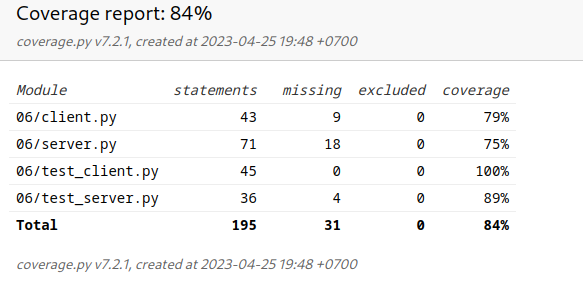
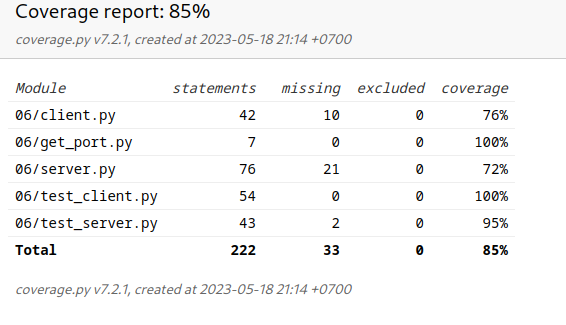
fix 6 hx

diff --git a/06/test_server.py b/06/test_server.py
@@ -3,59 +3,111 @@ import queue
 import threading
 import socket
 
+import pytest
+
 from server import server_starter
 from get_port import get_unused_data
 
 
-def fake_client(tmp_queue: queue.Queue, host: str, port: int) -> None:
-    base_urls = [
-        "https://shikimori.me/",
-        "https://mail.yandex.ru/",
-        "https://www.youtube.com/",
-        "https://stepik.org/catalog",
-        "https://github.com/PC-Nazarka",
-        "https://gitlab.com/PC-Nazarka",
-        "https://dzen.ru/",
-        "https://ya.ru/",
-        "https://krasnoyarsk.hh.ru/",
-        "https://docs.python.org/3/whatsnew/3.11.html",
-    ]
+def fake_client(
+    tmp_queue: queue.Queue,
+    host: str,
+    port: int,
+    urls: list[str],
+) -> None:
     timeout = 10
-    for url in base_urls:
-        try:
-            with socket.socket(socket.AF_INET, socket.SOCK_STREAM) as client:
-                client.connect((host, port))
-                client.settimeout(timeout)
-                client.sendall(url.encode())
-                data = client.recv(8192)
-                tmp_queue.put(json.loads(data.decode()))
-        except queue.Empty:
-            break
-        except TimeoutError:
-            break
+    for url in urls:
+        while True:
+            try:
+                with socket.socket(socket.AF_INET, socket.SOCK_STREAM) as client:
+                    client.connect((host, port))
+                    client.settimeout(timeout)
+                    client.sendall(url.encode())
+                    data = client.recv(8192)
+                    tmp_queue.put(json.loads(data.decode()))
+                    break
+            except queue.Empty:
+                break
+            except TimeoutError:
+                break
+            except Exception:
+                pass
 
 
-def test_server_side(mocker) -> None:
+@pytest.mark.parametrize(
+    ["workers", "count_words", "urls"],
+    [
+        [
+            2,
+            5,
+            [
+                "https://shikimori.me/",
+                "https://mail.yandex.ru/",
+                "https://stepik.org/catalog",
+                "https://dzen.ru/",
+                "https://ya.ru/",
+                "https://krasnoyarsk.hh.ru/",
+            ],
+        ],
+        [
+            7,
+            7,
+            [
+                "https://shikimori.me/",
+                "https://mail.yandex.ru/",
+                "https://stepik.org/catalog",
+                "https://krasnoyarsk.hh.ru/",
+            ],
+        ],
+        [
+            10,
+            2,
+            [
+                "https://shikimori.me/",
+                "https://mail.yandex.ru/",
+                "https://www.youtube.com/",
+                "https://stepik.org/catalog",
+                "https://github.com/PC-Nazarka",
+                "https://gitlab.com/PC-Nazarka",
+                "https://dzen.ru/",
+                "https://ya.ru/",
+                "https://krasnoyarsk.hh.ru/",
+                "https://docs.python.org/3/whatsnew/3.11.html",
+            ],
+        ],
+    ],
+)
+def test_server_side(
+    mocker,
+    workers: int,
+    count_words: int,
+    urls: list[str],
+) -> None:
     host, port = get_unused_data()
-    responses = [{str(i): i, str(i+1): i+1} for i in range(0, 20, 2)]
-    mocker.patch("server.handle_url", side_effect=responses)
+    tmp_queue = queue.Queue()
+    responses = [{str(i): i, str(i+1): i+1} for i in range(len(urls))]
+    func = mocker.Mock(side_effect=responses)
     server = threading.Thread(
         target=server_starter,
         name="server_thread",
-        args=(5, 5),
-        kwargs={"host": host, "port": port},
+        args=(workers, count_words),
+        kwargs={"host": host, "port": port, "handler_func": func},
     )
-    server.start()
-    tmp_queue = queue.Queue()
     client = threading.Thread(
         target=fake_client,
         name="fake_client_thread",
-        args=(tmp_queue, host, port),
+        args=(tmp_queue, host, port, urls),
     )
+    server.start()
     client.start()
     client.join()
     server.join()
     server_requests = []
+    calls = [(url, count_words) for url in urls]
     while not tmp_queue.empty():
         server_requests.append(tmp_queue.get())
     assert server_requests == responses
+    assert all(
+        call._get_call_arguments()[0] == calls[index]
+        for index, call in enumerate(func.call_args_list)
+    )

diff --git a/06/server.py b/06/server.py
@@ -4,6 +4,7 @@ import socket
 import threading
 import queue
 from collections import Counter
+from typing import Callable
 from urllib import request, error
 
 HOST = "localhost"
@@ -32,6 +33,7 @@ def worker_thread(
     in_queue: queue.Queue,
     timeout: int,
     lock: threading.Lock,
+    handler_func: Callable = handle_url,
 ) -> None:
     while True:
         try:
@@ -40,16 +42,16 @@ def worker_thread(
                 break
             with connection:
                 url = connection.recv(8192)
-                top_words = handle_url(
+                top_words = handler_func(
                     url.decode(DEFAULT_ENCODING),
                     count_words,
                 )
+                result = str(json.dumps(top_words)).encode(DEFAULT_ENCODING)
+                connection.sendall(result)
                 with lock:
                     global COUNT_COMPUTED_URLS
                     COUNT_COMPUTED_URLS += 1
                 print(COUNT_COMPUTED_URLS)
-                result = str(json.dumps(top_words)).encode(DEFAULT_ENCODING)
-                connection.sendall(result)
         except TimeoutError:
             break
         except queue.Empty:
@@ -64,6 +66,7 @@ def master_thread(
     host: str,
     port: int,
     timeout: int = TIMEOUT,
+    handler_func: Callable = handle_url,
 ) -> None:
     in_queue = queue.Queue()
     lock = threading.Lock()
@@ -77,6 +80,7 @@ def master_thread(
                 target=worker_thread,
                 name=f"worker_thread_{i}",
                 args=(count_words, in_queue, timeout, lock),
+                kwargs={"handler_func": handler_func},
             )
             for i in range(workers)
         ]
@@ -97,11 +101,13 @@ def server_starter(
     count_words: int,
     host: str = HOST,
     port: int = PORT,
+    handler_func: Callable = handle_url,
 ) -> None:
     master = threading.Thread(
         target=master_thread,
         name="master_thread",
         args=(workers, count_words, host, port),
+        kwargs={"handler_func": handler_func},
     )
     master.start()
     master.join()

diff --git a/06/test_client.py b/06/test_client.py
@@ -11,7 +11,12 @@ from client import client_starter
 from get_port import get_unused_data
 
 
-def fake_server(get_urls: queue.Queue, sended_data: queue.Queue, host: str, port: int) -> None:
+def fake_server(
+    get_urls: queue.Queue,
+    sended_data: queue.Queue,
+    host: str,
+    port: int,
+) -> None:
     timeout = 10
     with socket.socket(socket.AF_INET, socket.SOCK_STREAM) as server:
         server.settimeout(timeout)

diff --git a/README.md b/README.md
@@ -15,14 +15,14 @@ pytest
 Получение отчета о покрытии тестами:
 
 ```bash
-coverage run -m pytest 
+coverage run -m pytest
 coverage report -m
-coverage html 
+coverage html
 ```
 
 Проверка линтерами:
 
 ```bash
 flake8
-pylint ./01/  # например
+pylint ./01/  # example
 ```
